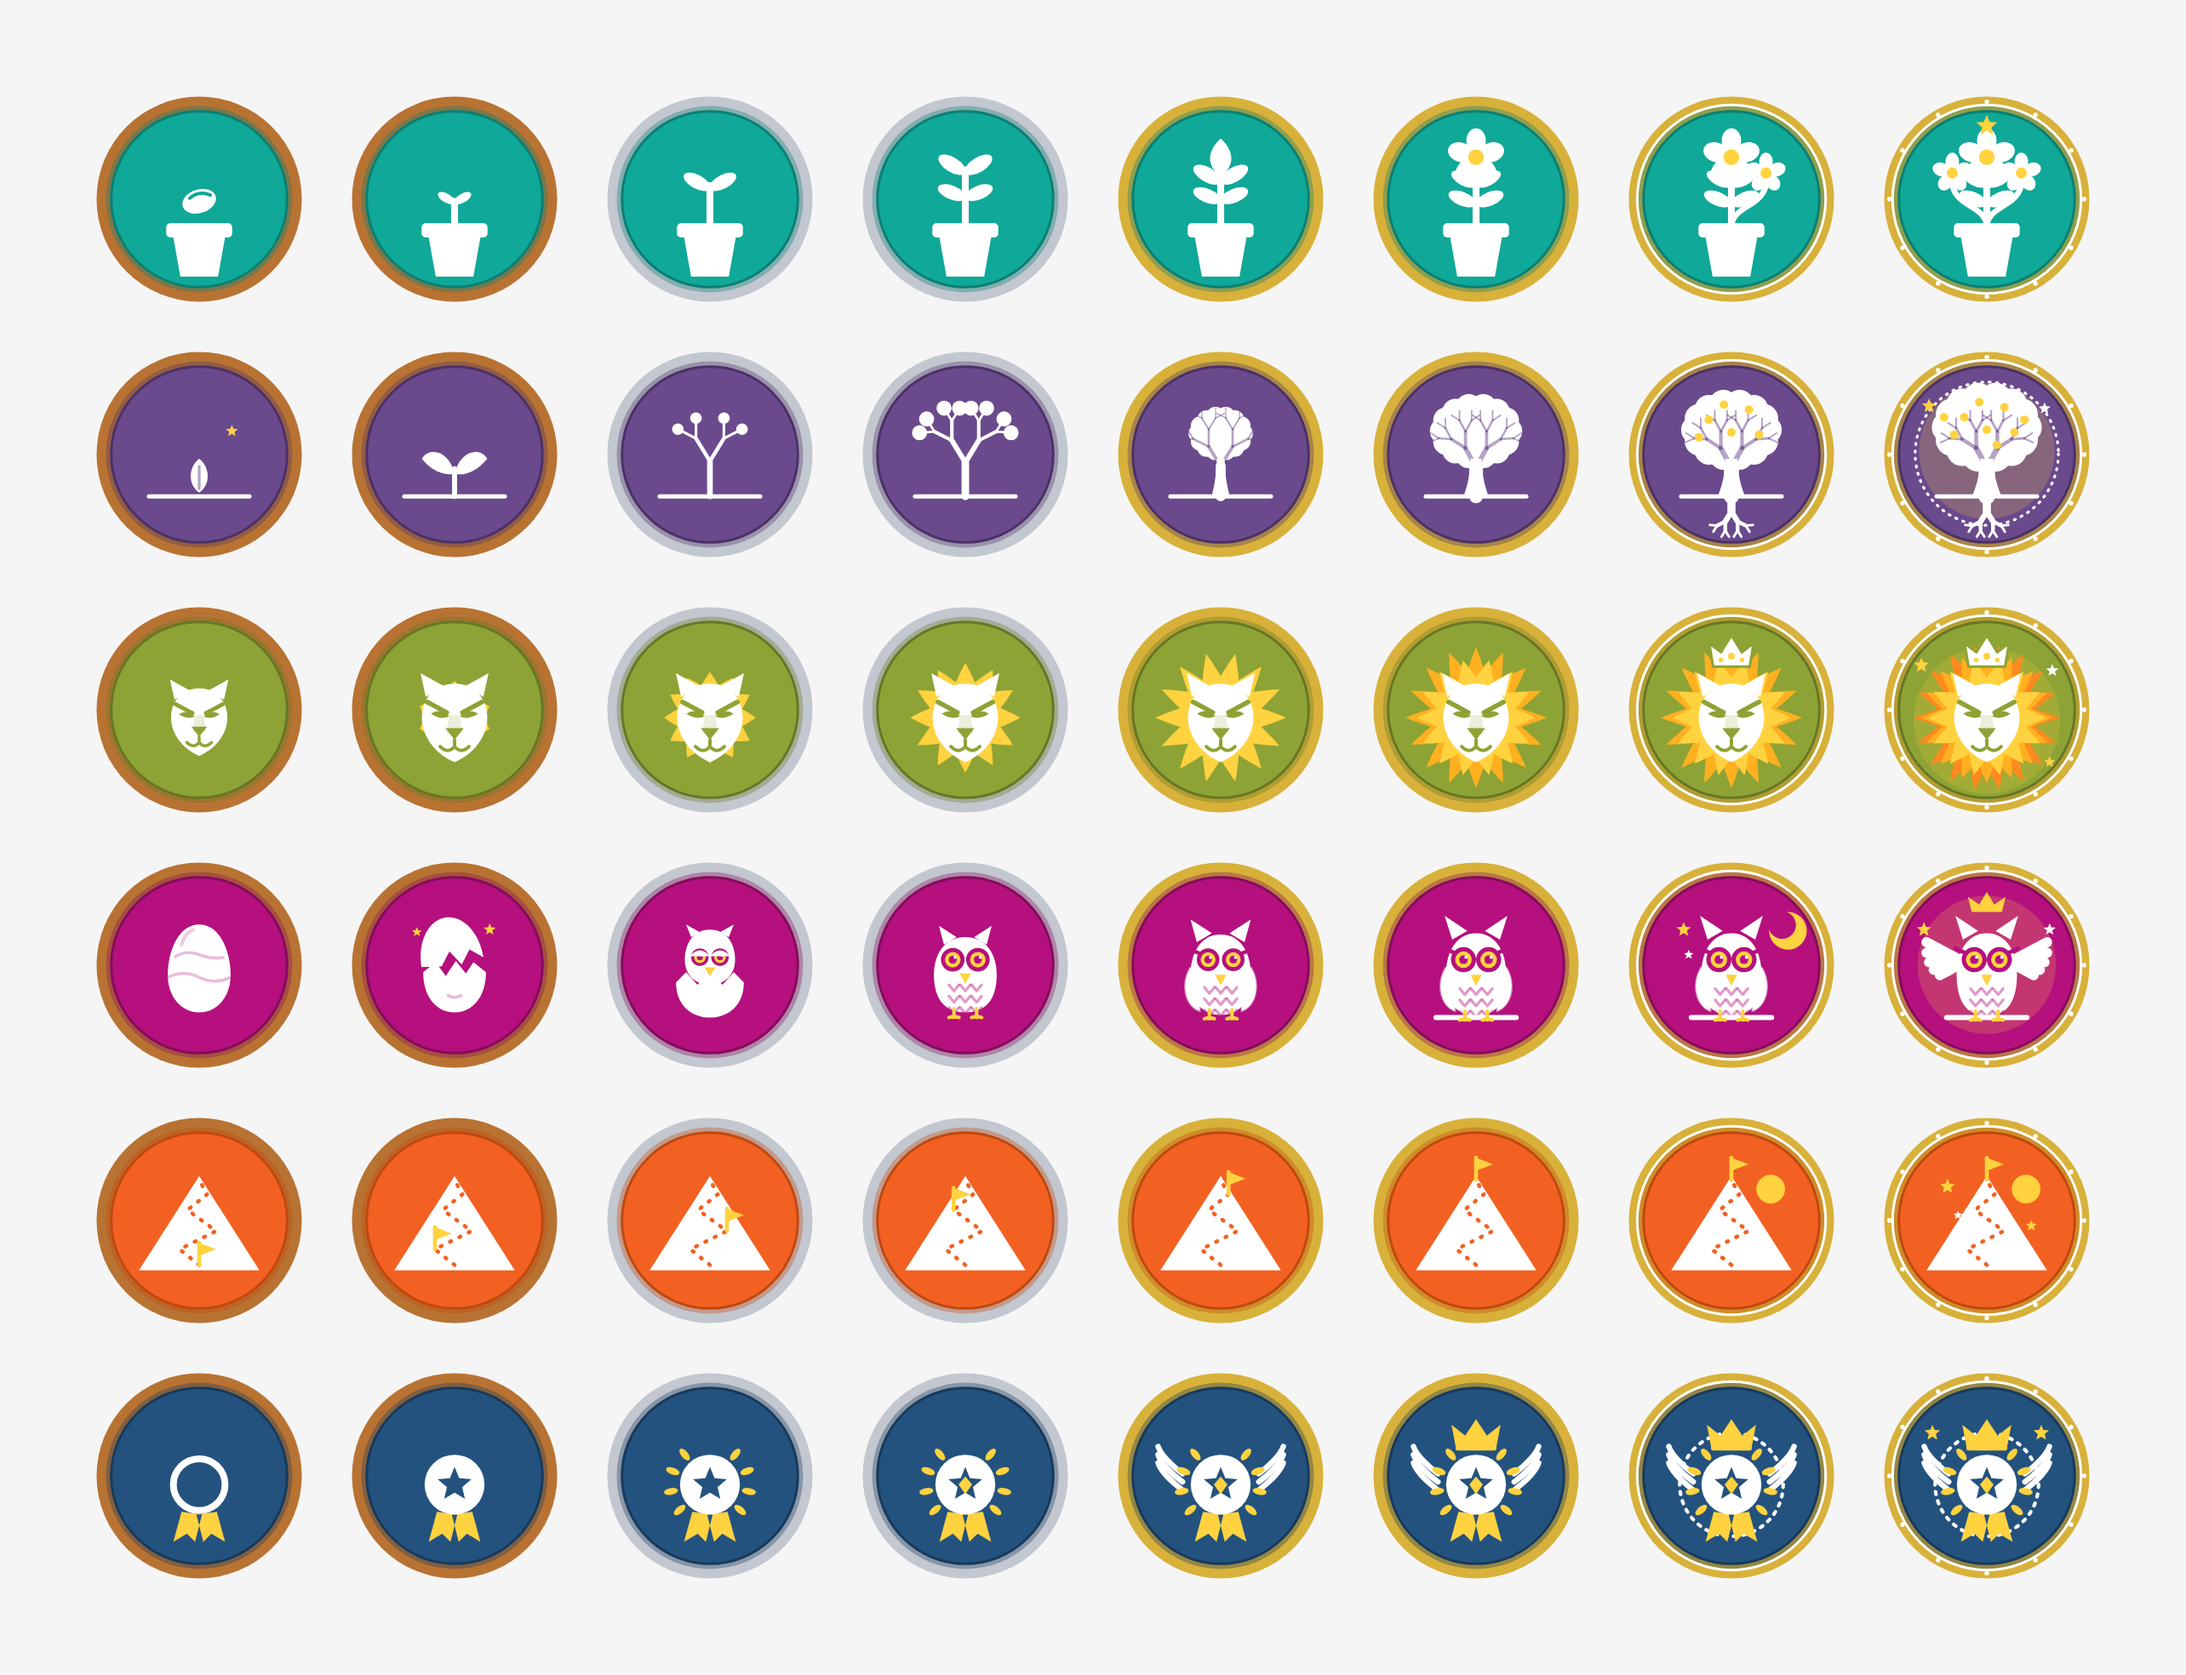
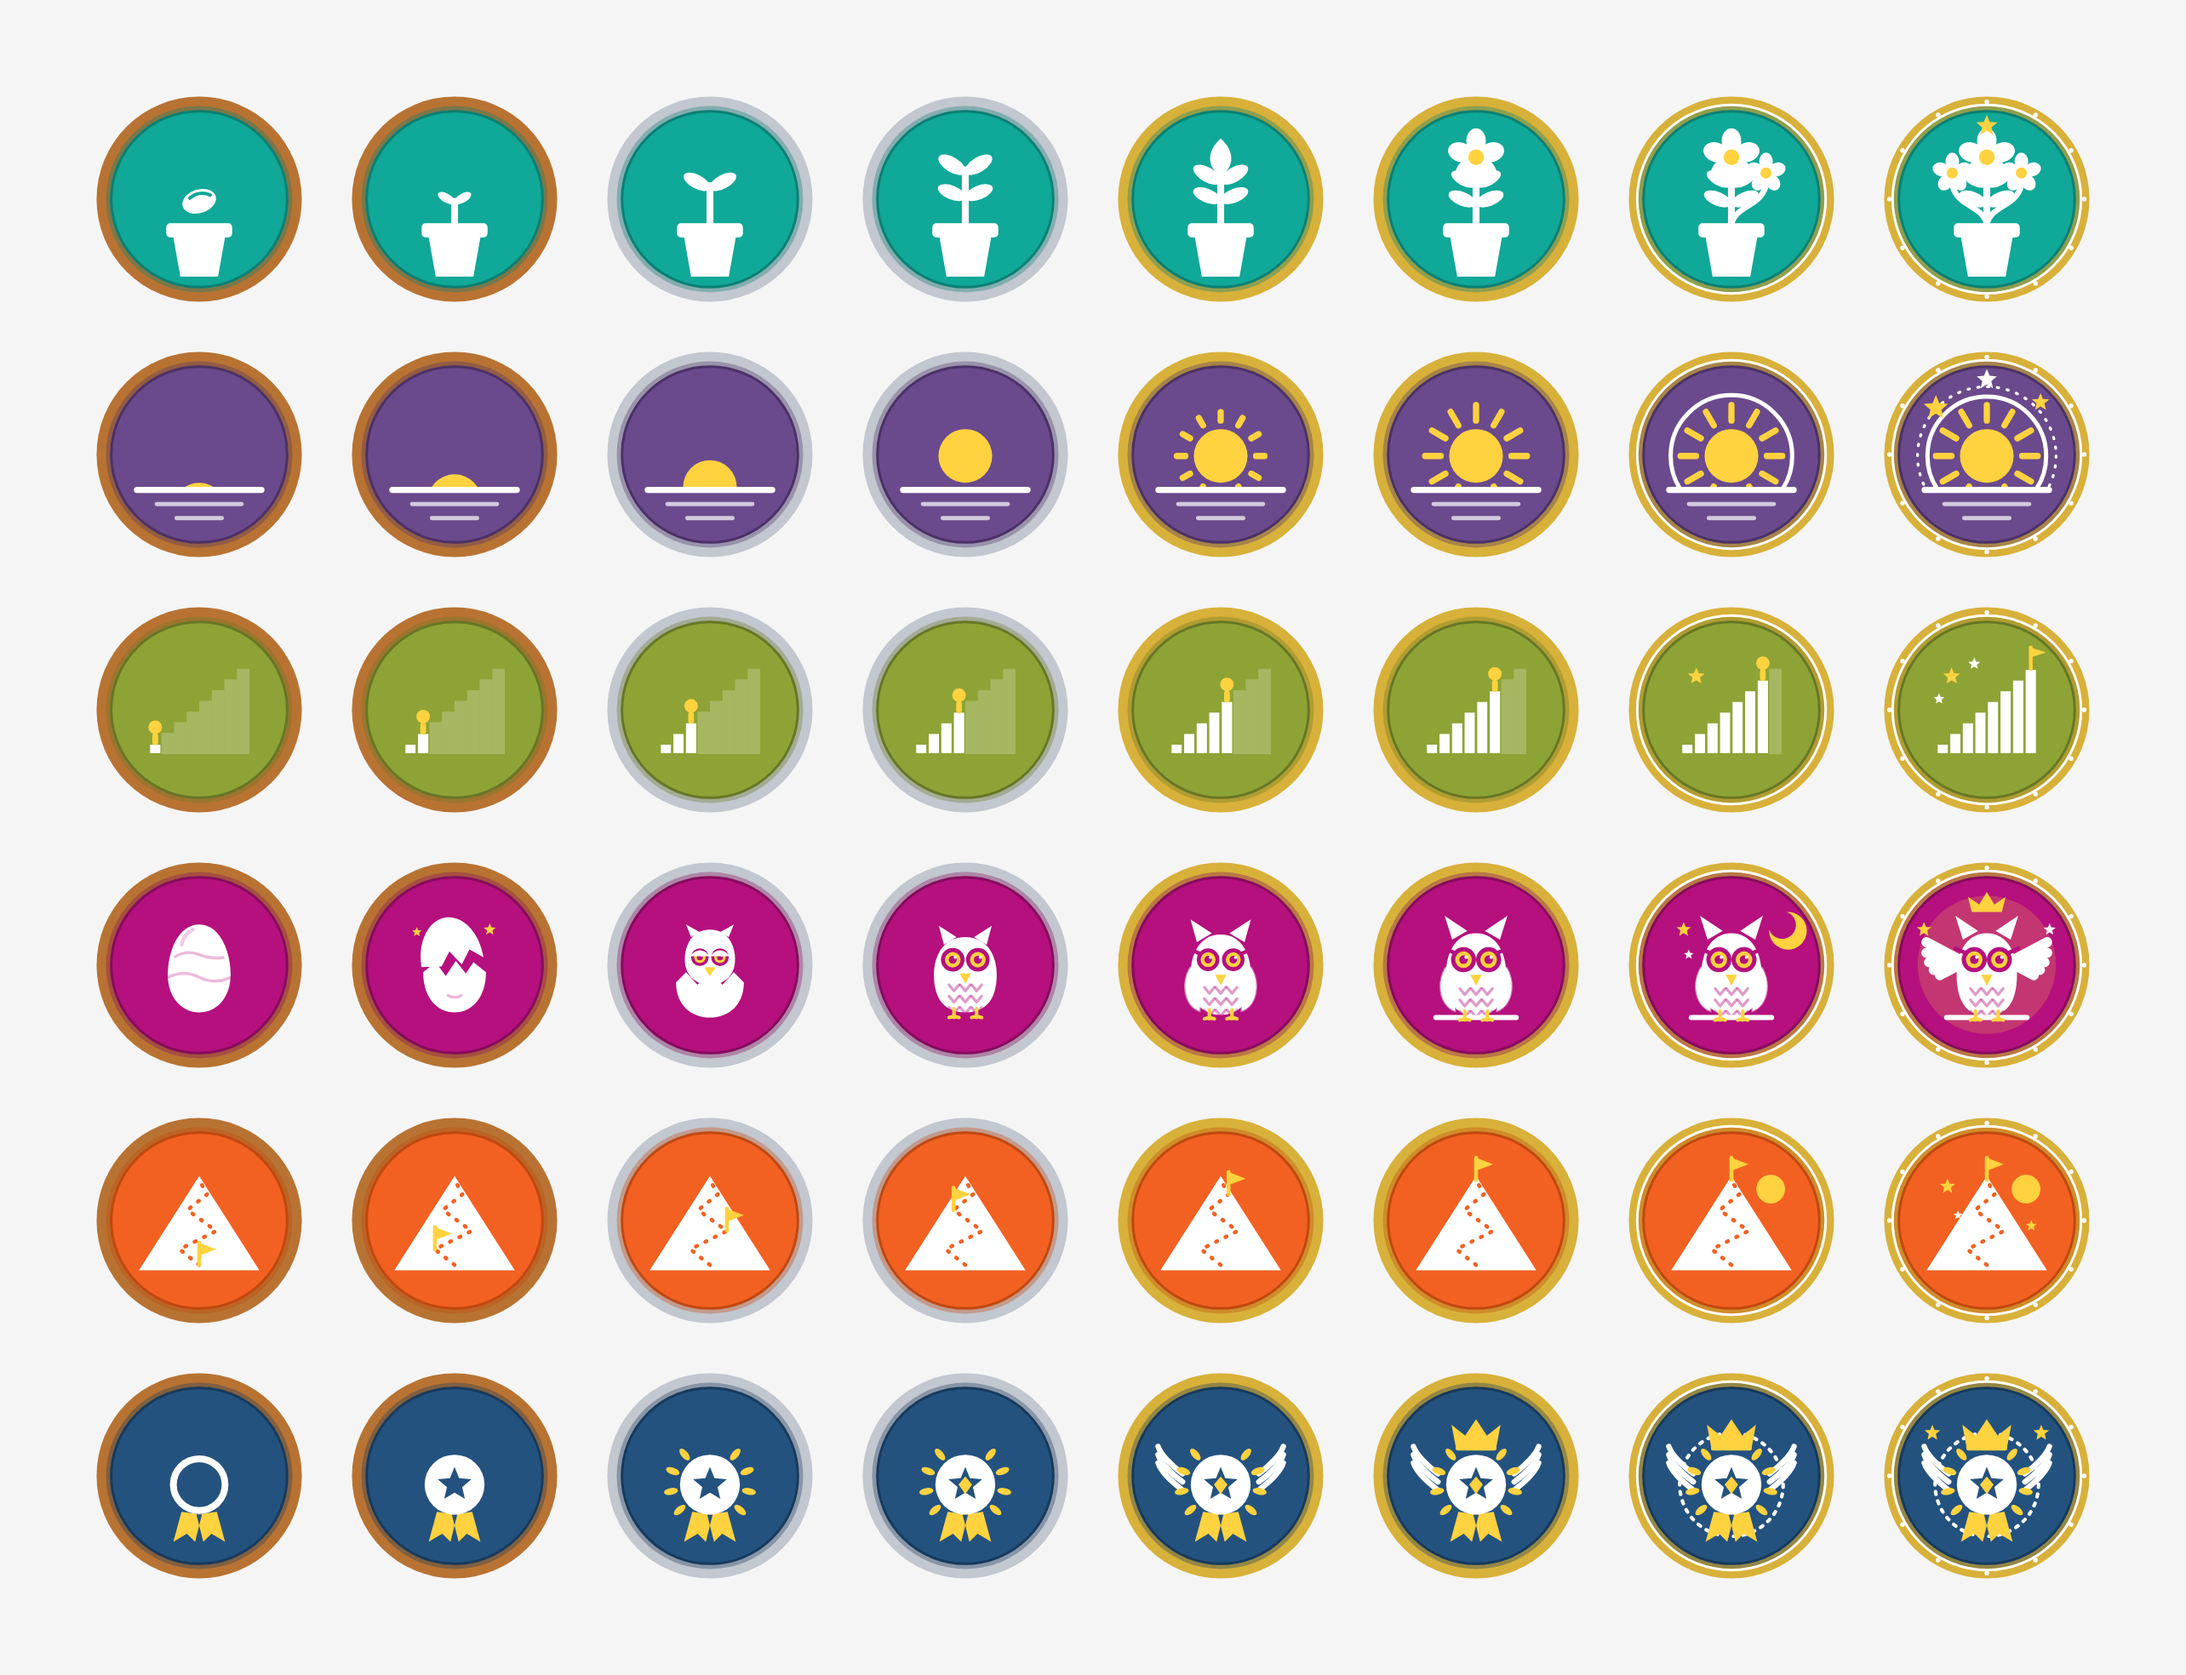
tools: badge sheet with owl row only (draft, local only)
Claude-Session: https://claude.ai/code/session_01L5b88pmCpPwtZjihK8wpK9

diff --git a/tools/badge-sheet/flat48.py b/tools/badge-sheet/flat48.py
@@ -44,77 +44,36 @@ def rec(x, y, ang, L, w, depth, spread, shrink, out, tips):
     rec(x2, y2, ang - spread, L * shrink, w * .68, depth - 1, spread, shrink, out, tips)
     rec(x2, y2, ang + spread, L * shrink, w * .68, depth - 1, spread, shrink, out, tips)
 
-# ردیف ۲: بذر ← درختِ تنومند (درختِ زندگی)
+# ردیف ۲: خورشید و افق
 def f(n, D):
-    gy = 30
-    ground = f'<path d="M-40,{gy} H40" stroke="{W}" stroke-width="3.4" stroke-linecap="round"/>'
-    if n == 1:
-        return ground + f'<path d="M0,{gy-3} C-10,{gy-10} -8,{gy-24} 0,{gy-30} C8,{gy-24} 10,{gy-10} 0,{gy-3}Z" fill="{W}"/><path d="M0,{gy-6} V{gy-24}" stroke="{D}" stroke-width="2.2" stroke-linecap="round" stroke-opacity=".5"/>' + star(26, -22, 5, Y)
-    if n == 2:
-        lf = lambda sg: f'<path d="M0,{gy-18} C{sg*4},{gy-36} {sg*20},{gy-40} {sg*26},{gy-30} C{sg*18},{gy-20} {sg*8},{gy-16} 0,{gy-18}Z" fill="{W}"/>'
-        return ground + f'<path d="M0,{gy} V{gy-22}" stroke="{W}" stroke-width="4" stroke-linecap="round"/>' + lf(-1) + lf(1)
-    out, tips = [], []
-    depth = {3: 2, 4: 3, 5: 4, 6: 4, 7: 4, 8: 4}[n]
-    L0 = {3: 20, 4: 19, 5: 16, 6: 15, 7: 15, 8: 15}[n]
-    tw = {3: 4.5, 4: 6, 5: 8, 6: 11, 7: 12, 8: 13}[n]
-    rec(0, gy, 0, L0 + 8, tw, depth, .55 if n < 6 else .5, .76, out, tips)
-    o = ground
-    if n == 8: o = circ(0, -6, 54, Y, .2) + f'<circle cx="0" cy="-4" r="57" fill="none" stroke="{W}" stroke-width="2.2" stroke-dasharray="1 5" stroke-linecap="round"/>' + o
+    cy = {1: 42, 2: 36, 3: 26}.get(n, 4)
+    hor = 26
+    sun = f'<circle cx="0" cy="{cy}" r="19" fill="{Y}"/>'
+    rays = ''
     if n >= 5:
-        rx, ry, cy = {5: (22, 18, -20), 6: (32, 25, -22), 7: (35, 27, -23), 8: (38, 30, -25)}[n]
-        cl = [(0, cy, ry * .9)]
-        for k in range(14):
-            a_ = k * 2 * math.pi / 14
-            cl.append((rx * .82 * math.cos(a_), cy + ry * .78 * math.sin(a_), ry * .42))
-        o += ''.join(circ(x, y, r_) for x, y, r_ in cl)
-        o += ''.join(ln(x1, y1, x2, y2, w * .5, D, .5) for x1, y1, x2, y2, w in out if w < tw * .9 and y1 < 0 + 8)
-        o += ''.join(ln(x1, y1, x2, y2, w) for x1, y1, x2, y2, w in out if w >= tw * .9)
-        o += f'<path d="M{-tw*.9},{gy} C{-tw*.45},{gy-14} {-tw*.4},{gy-24} {-tw*.4},{gy-30} L{tw*.4},{gy-30} C{tw*.4},{gy-24} {tw*.45},{gy-14} {tw*.9},{gy}Z" fill="{W}"/>'
-    else:
-        lr = 4.6 + (n - 3) * 1.4
-        o += ''.join(circ(x, y, lr) for x, y in tips) + ''.join(ln(x1, y1, x2, y2, w) for x1, y1, x2, y2, w in out)
-    if n >= 7:
-        ro, rt = [], []
-        rec(0, gy, math.pi, 12, 6.5, 3, .55, .78, ro, rt)
-        o += ''.join(ln(x1, y1, x2, y2, w) for x1, y1, x2, y2, w in ro)
-        fr = [(-18, cy - 8), (14, cy - 16), (22, cy + 4), (-26, cy + 6), (0, cy + 2), (-6, cy - 20)] + ([(30, cy - 6), (-34, cy - 8), (8, cy + 14)] if n == 8 else [])
-        o += ''.join(circ(x, y, 3.4, Y) for x, y in fr)
-    if n == 8: o += star(-46, -42, 6, Y) + star(46, -40, 5, W)
-    return o
+        L = 31 if n == 5 else 36
+        rays = ''.join(f'<path d="M0,-25 V-{L}" stroke="{Y}" stroke-width="4.4" stroke-linecap="round" transform="translate(0 {cy}) rotate({a})"/>' for a in range(-90, 91, 30)) if False else ''.join(f'<path d="M0,-25 V-{L}" stroke="{Y}" stroke-width="4.4" stroke-linecap="round" transform="translate(0 {cy}) rotate({a})"/>' for a in range(0, 360, 30))
+    ring = f'<circle cx="0" cy="{cy}" r="43" fill="none" stroke="{W}" stroke-width="3"/>' if n == 7 else (f'<circle cx="0" cy="{cy}" r="42" fill="none" stroke="{W}" stroke-width="3"/><circle cx="0" cy="{cy}" r="49" fill="none" stroke="{W}" stroke-width="2" stroke-dasharray="1 6" stroke-linecap="round"/>' if n == 8 else '')
+    cid = 'hz'
+    out = f'<clipPath id="{cid}"><rect x="-60" y="-60" width="120" height="{60+hor}"/></clipPath><g clip-path="url(#{cid})">{ring}{rays}{sun}</g><path d="M-44,{hor+2} H44" stroke="{W}" stroke-width="4.4" stroke-linecap="round"/><path d="M-30,{hor+12} H30 M-16,{hor+22} H16" stroke="{W}" stroke-width="3" stroke-linecap="round" opacity=".7"/>'
+    if n == 8: out += star(-36, -30, 9, Y) + star(38, -34, 6.5, Y) + star(0, -50, 7.5, W)
+    return out
 
-# ردیف ۳: شیر
-def petals(N, ln_, w, fill, rot, r0):
-    o = ''
-    for k in range(N):
-        a = rot + k * 360 / N
-        o += f'<path d="M{-w},0 Q{-w*.5},{-ln_*.6} 0,{-ln_} Q{w*.5},{-ln_*.6} {w},0Z" fill="{fill}" transform="rotate({a:.1f}) translate(0 {-r0})"/>'
-    return o
+# ردیف ۳: پلهها (هر نشان یک پلهی بیشتر + آدمکِ بالای پله)
 def b(n, D):
-    cy = 6; k = .86 if n == 1 else 1.0
+    sw, sh, x0, base = 10, 8.5, -40, 32
     o = ''
-    if n == 8: o += circ(0, cy - 4, 56, Y, .18)
-    if n >= 8: o += petals(18, 36, 11, '#FF8A1F', 10, 20)
-    if n >= 6: o += petals(16, {6: 34, 7: 34, 8: 30}[n], 11, '#FFB020', 0, 20)
-    if n >= 5: o += petals(14, {5: 30}.get(n, 25), 10.5, Y, 360/28, 20)
-    if n == 4: o += petals(12, 22, 10, Y, 0, 20)
-    if n == 3: o += petals(12, 15, 9, Y, 0, 20)
-    if n == 2: o += petals(10, 8, 8, Y, 0, 20)
-    g = f'<g transform="translate(0 {cy}) scale({k})">'
-    o = o.replace('<path', f'<path transform-origin="0 0"', 0)
-    o = f'<g transform="translate(0 {cy})">{o}</g>'
-    ears = f'<path d="M-22,-16 L-26,-34 L-8,-24Z M22,-16 L26,-34 L8,-24Z" fill="{W}"/>'
-    head = f'<path d="M0,-26 C15,-26 25,-15 25,0 C25,15 14,28 0,34 C-14,28 -25,15 -25,0 C-25,-15 -15,-26 0,-26Z" fill="{W}"/>'
-    feat = (f'<path d="M-21,-12 L-6,-4 M21,-12 L6,-4" stroke="{D}" stroke-width="3.6" stroke-linecap="round"/>'
-            f'<path d="M-18,-3 Q-11,-8 -4,-1 Q-11,2 -18,-3Z M18,-3 Q11,-8 4,-1 Q11,2 18,-3Z" fill="{D}"/>'
-            f'<path d="M-4,-2 L4,-2 L6,12 L-6,12Z" fill="{D}" fill-opacity=".18"/>'
-            f'<path d="M-7,8 H7 L0,17Z" fill="{D}"/>'
-            f'<path d="M0,17 V22 M-11,22 Q-5,28 0,22 Q5,28 11,22" stroke="{D}" stroke-width="2.6" fill="none" stroke-linecap="round"/>')
-    if n == 1:
-        feat += f'<path d="M-6,-30 Q0,-40 6,-30 M-12,-27 Q-12,-38 -5,-36" stroke="{D}" stroke-width="0" fill="none"/>'
-    o += f'<g transform="translate(0 {cy}) scale({k})">{ears}{head}{feat}</g>'
-    if n >= 7:
-        o += f'<g transform="translate(0 {cy-47})"><path d="M-14,8 L-17,-10 L-8,-3 L0,-16 L8,-3 L17,-10 L14,8Z" fill="{W}" stroke="{D}" stroke-width="2" stroke-linejoin="round"/><circle cy="0" r="2.6" fill="{Y}"/><circle cx="-8" cy="3" r="1.8" fill="{Y}"/><circle cx="8" cy="3" r="1.8" fill="{Y}"/></g>'
-    if n == 8: o += star(-50, -34, 6, Y) + star(50, -30, 5, W) + star(48, 40, 4.5, Y)
+    for k in range(1, 9):
+        x = x0 + (k - 1) * sw; hh = k * sh
+        if k <= n: o += f'<rect x="{x}" y="{base-hh}" width="{sw}" height="{hh}" fill="{W}" stroke="{D}" stroke-width="1.8"/>'
+        else: o += f'<rect x="{x}" y="{base-hh}" width="{sw}" height="{hh}" fill="{W}" opacity=".22"/>'
+    cx = x0 + (n - 1) * sw + sw / 2; top = base - n * sh
+    if n < 8:
+        o += f'<circle cx="{cx}" cy="{top-13}" r="5.4" fill="{Y}"/><path d="M{cx},{top-6} V{top-1}" stroke="{Y}" stroke-width="4.6" stroke-linecap="round"/>'
+    else:
+        o += f'<path d="M{cx},{top} V{top-17}" stroke="{Y}" stroke-width="3" stroke-linecap="round"/><path d="M{cx},{top-17} L{cx+12},{top-13} L{cx},{top-9}Z" fill="{Y}"/>'
+    if n >= 7: o += star(-28, -30, 7, Y)
+    if n == 8: o += star(-10, -40, 5, W) + star(-38, -12, 4.5, W)
     return o
 
 # ردیف ۴: تخم ← جغدِ افسانهای
@@ -191,7 +150,7 @@ def s(n, D):
     if n == 8: o += star(-40, -30, 6, Y) + star(40, -30, 6, Y)
     return o
 
-SC = [1.5, 1.2, 1.25, 1.2, 1.25, 1.3]; SH = [8, 4, 0, 2, 0, -2]
+SC = [1.5, 1.35, 1.2, 1.2, 1.25, 1.3]; SH = [8, -4, 4, 2, 0, -2]
 FN = [g, f, b, r, m, s]
 def badge(i, idprefix=''):
     row, col = divmod(i - 1, 8); D, DK, _ = ROWS[row]; rim = RIMS[col]
